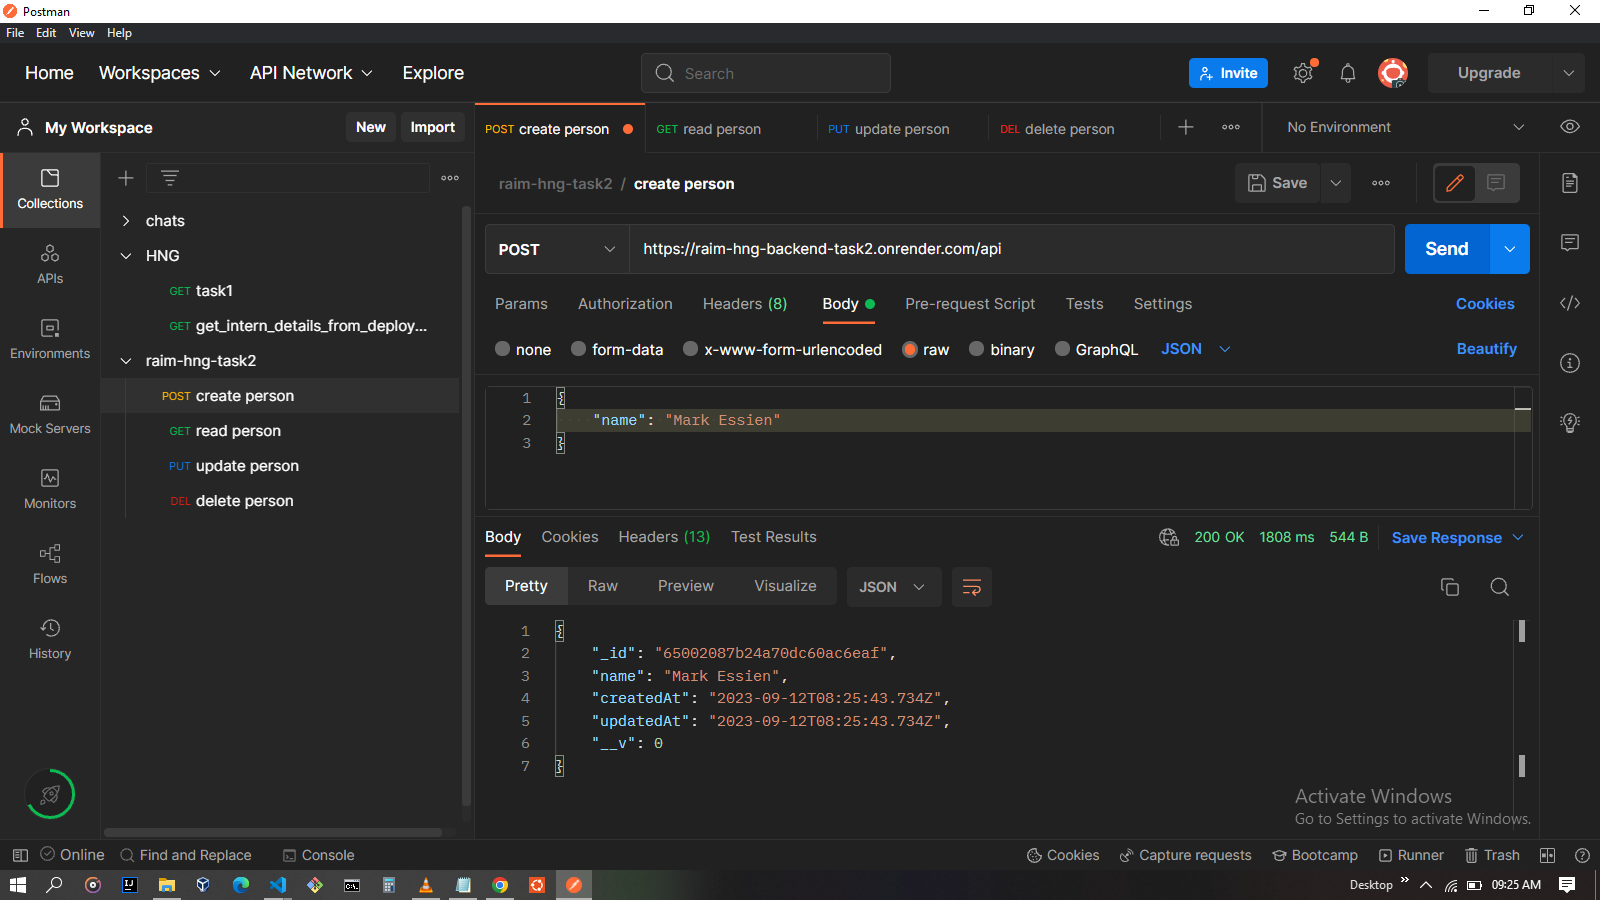
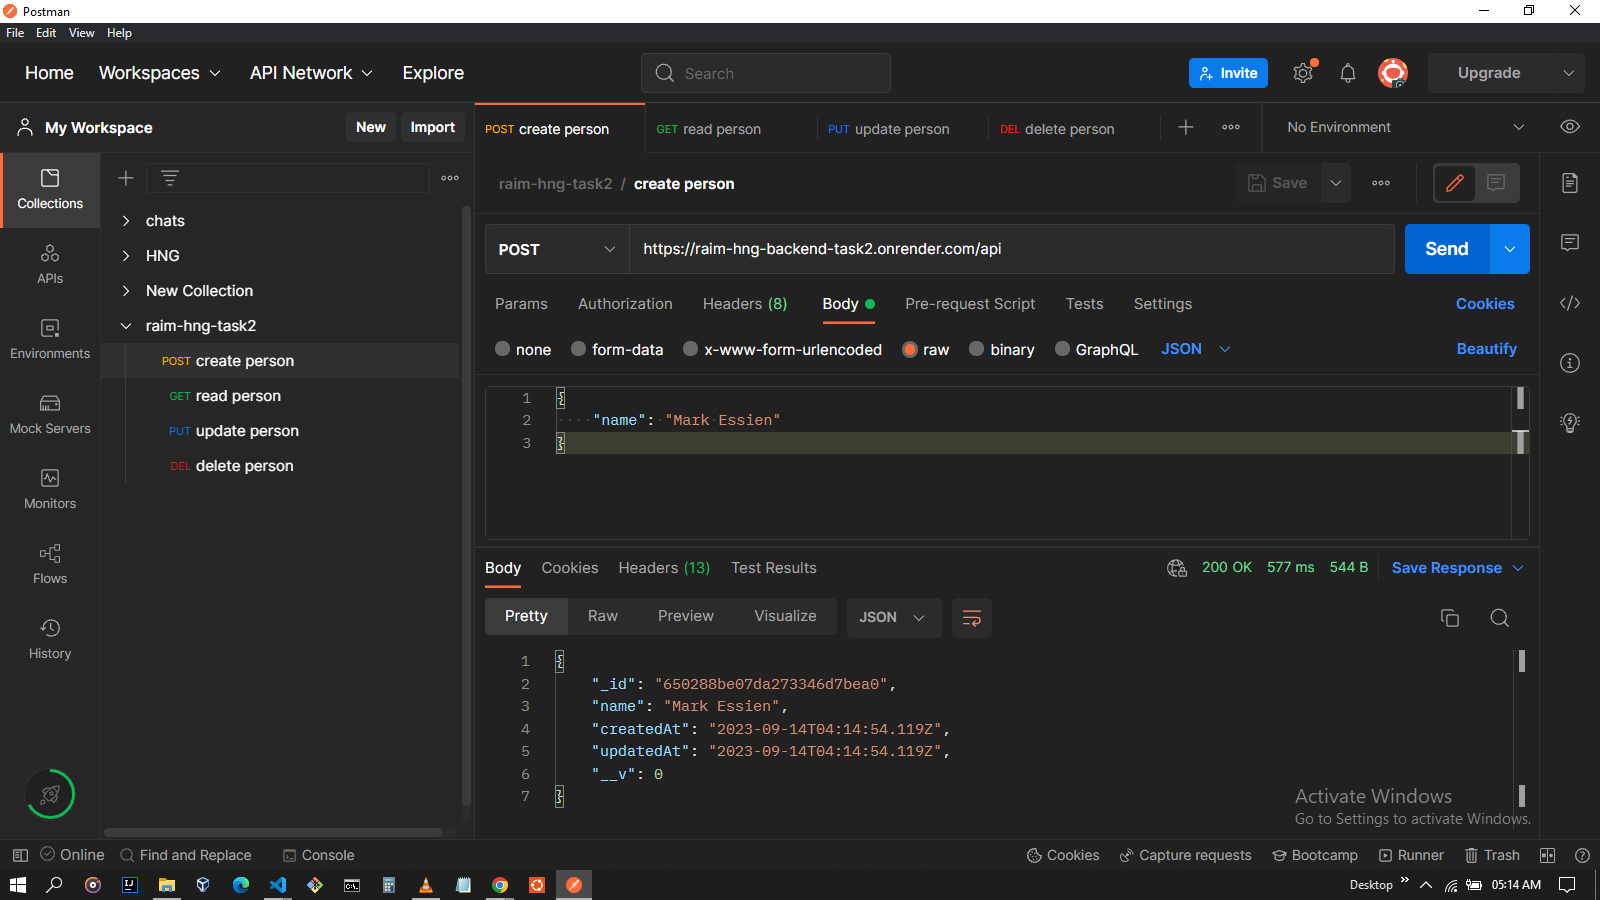
updated README.md and assets

diff --git a/server.js b/server.js
@@ -28,13 +28,18 @@ app.use(bodyParser.json());
 
 // test route
 app.get('/', (req, res) => {
-	res.send('API server is running...')
-})
+	res.send('API server is running...');
+});
+
+// ping route
+app.get('/ping', (req, res) => {
+	res.send('Pong!!, still running...');
+});
 
 // CREATE ROUTE
 app.post('/api', postValidationRules, validateData, createPerson);
 
 // READ, UPDATE AND DELETE ROUTES
-app.use('/api', routes)
+app.use('/api', routes);
 
 app.listen(PORT, console.log(`server is running on port ${PORT}`));

diff --git a/ping.js b/ping.js
@@ -1,0 +1,20 @@
+const fetch = require("node-fetch");
+
+
+const pingServer = async (req, res) => {
+
+	try {
+		const response = await fetch('http://localhost:8080/ping');
+		const message = await response.text();
+
+		console.log(`ping response: ${message}`);
+	} catch (error) {
+		console.log(`ping error: ${error.message}`)
+	}
+
+	// define ping interval as 15 minutes
+	const pingInterval = 1000 * 60 * 15;
+
+	// start pinging
+	setInterval(pingServer, pingInterval);
+}

diff --git a/README.md b/README.md
@@ -126,7 +126,7 @@ the response will be in the json format:
 }
 ```
 
-Here is a screenshot of postman test for this operation
+Here is a screenshot of a postman test for this operation
 
 ![Create a person](/assets/postman-test/create-person.png)
 
@@ -139,15 +139,7 @@ This user gets created in our mongoDB collection
 from the API route:
 
 ```http
-https://raim-hng-backend-task2.onrender.com/api/user_id
-```
-
-the request body:
-
-```json
-{
-	"id": "65002087b24a70dc60ac6eaf"
-}
+https://raim-hng-backend-task2.onrender.com/api/65002087b24a70dc60ac6eaf
 ```
 
 the response will be in the json format:
@@ -162,7 +154,7 @@ the response will be in the json format:
 }
 ```
 
-Here is a screenshot of postman test for this operation
+Here is a screenshot of a postman test for this operation
 
 ![Read a person](/assets/postman-test/read-person.png)
 
@@ -171,14 +163,13 @@ Here is a screenshot of postman test for this operation
 from the API route:
 
 ```http
-https://raim-hng-backend-task2.onrender.com/api/user_id
+https://raim-hng-backend-task2.onrender.com/api/65002087b24a70dc60ac6eaf
 ```
 
 the request body:
 
 ```json
 {
-	"id": "65002087b24a70dc60ac6eaf",
   "name": "Essien Mark"
 }
 ```
@@ -194,7 +185,7 @@ the response will be in the json format:
 }
 ```
 
-Here is a screenshot of postman test for this operation
+Here is a screenshot of a postman test for this operation
 
 ![Update a person](/assets/postman-test/update-person.png)
 
@@ -203,15 +194,7 @@ Here is a screenshot of postman test for this operation
 from the API route:
 
 ```http
-https://raim-hng-backend-task2.onrender.com/api/user_id
-```
-
-the request body:
-
-```json
-{
-	"id": "65002087b24a70dc60ac6eaf"
-}
+https://raim-hng-backend-task2.onrender.com/api/65002087b24a70dc60ac6eaf
 ```
 
 the response will be in the json format:
@@ -226,13 +209,13 @@ the response will be in the json format:
 }
 ```
 
-Here is a screenshot of postman test for this operation
+Here is a screenshot of a postman test for this operation
 
 ![Delete a person](/assets/postman-test/delete-person.png)
 
 To handle errors, and validate success, the program makes a few logs on the deployed server console. Below is the logs on the Render deployment console for the above CRUD operations:
 
-![Render logs for CRUD](/assets/deployment/logs.png)
+![Render logs for CRUD](/assets/postman-test/render-logs.png)
 
 
 ## Features
